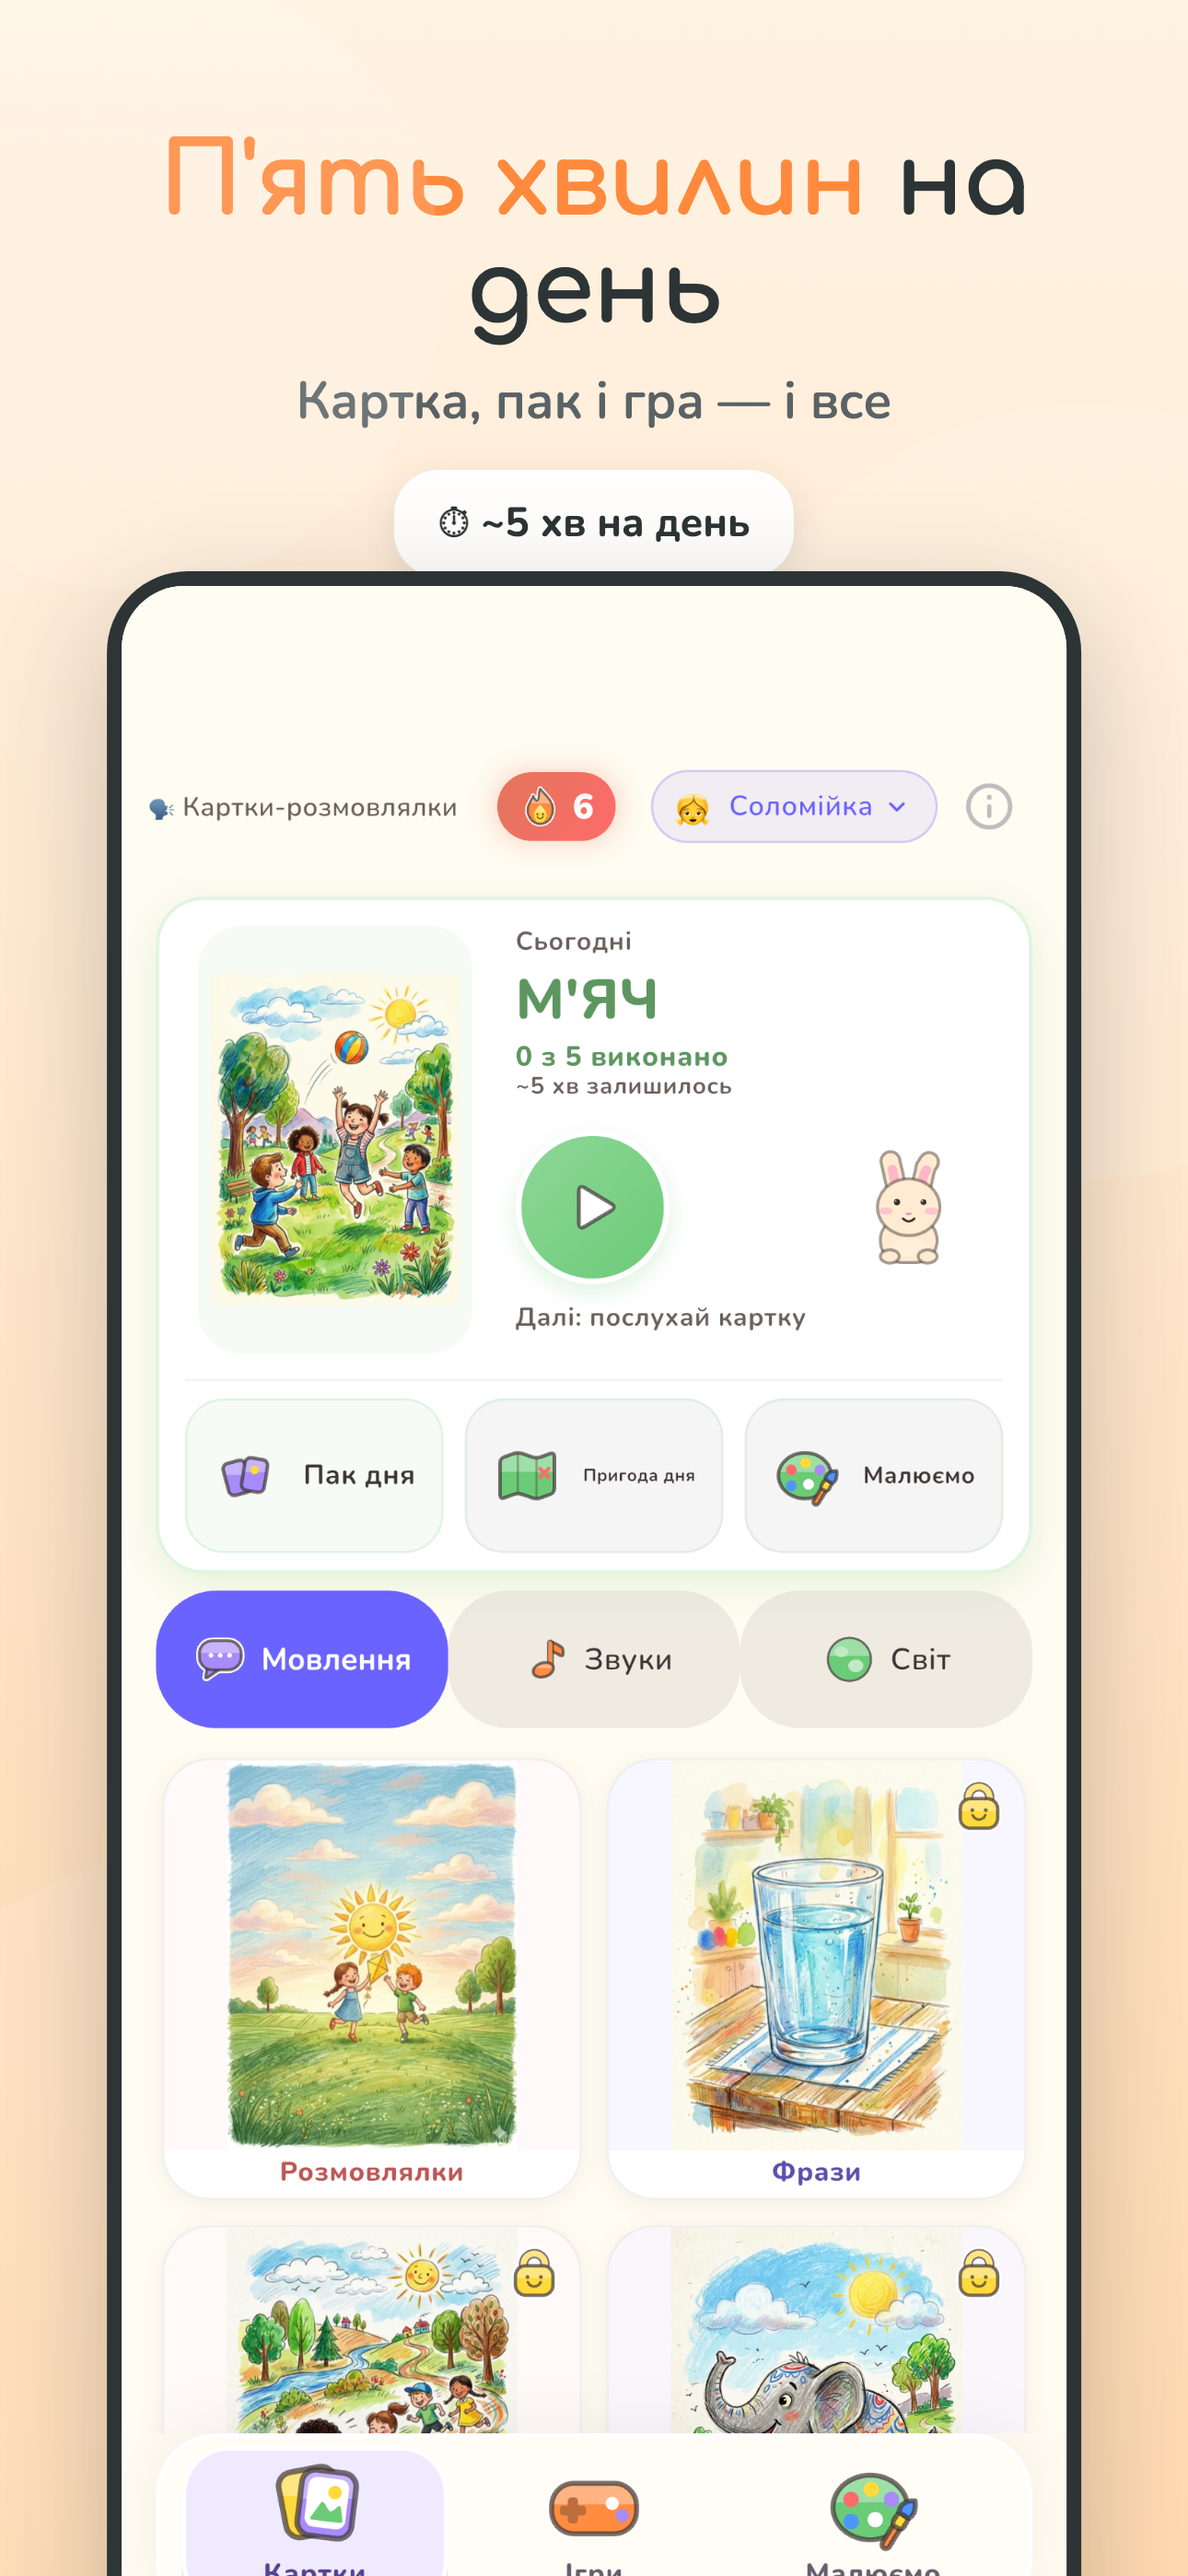
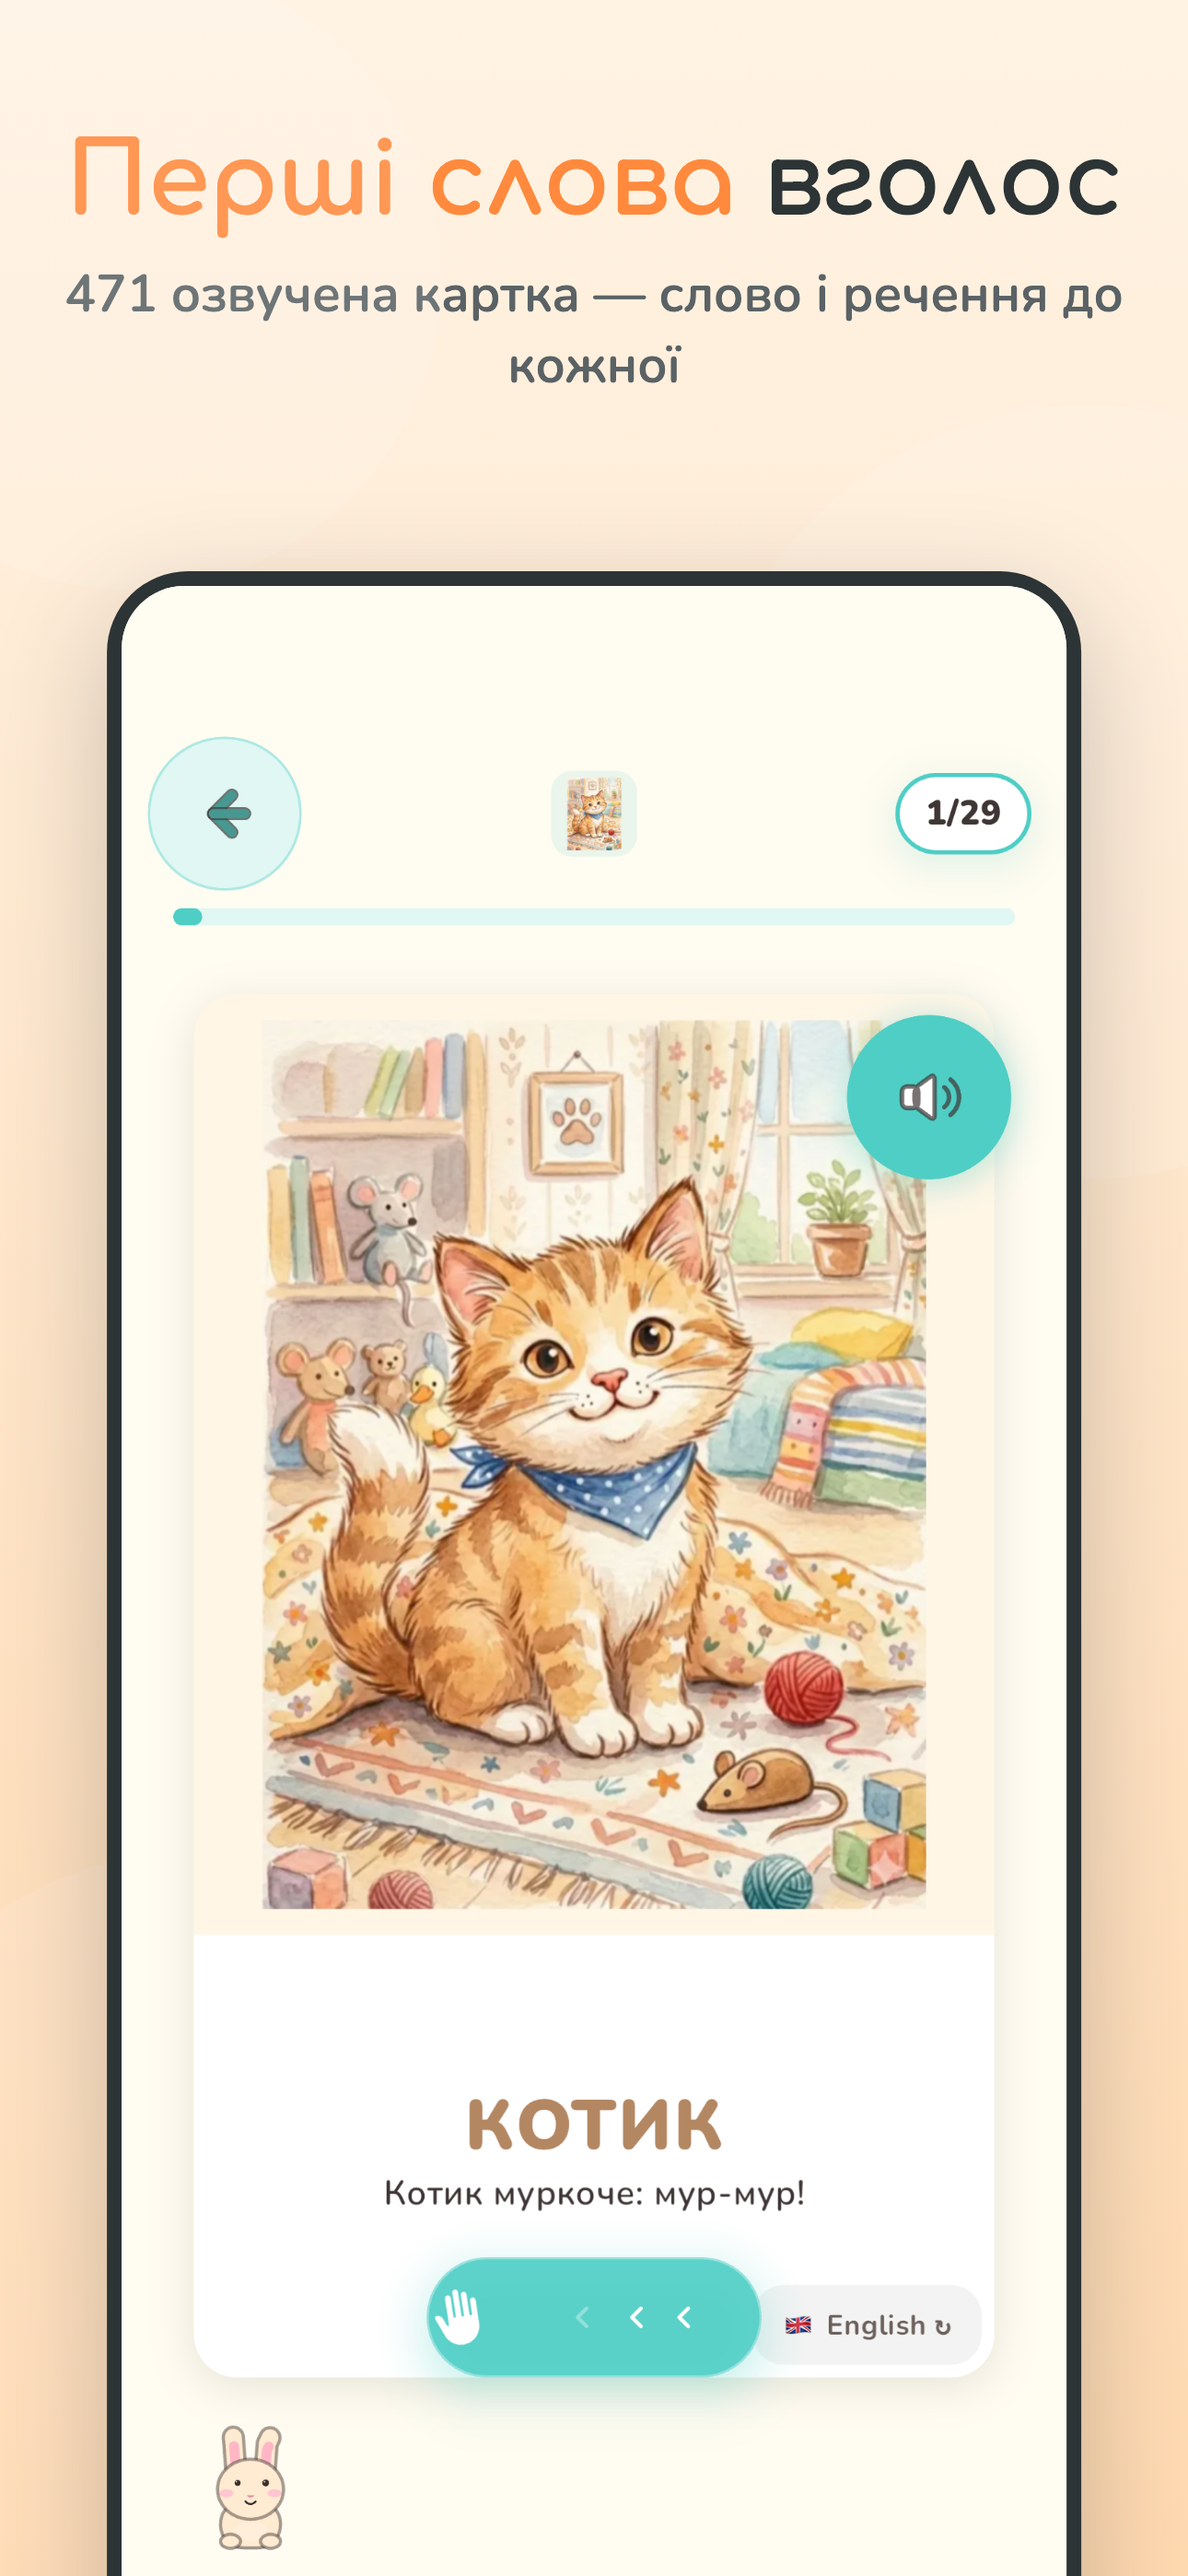
feat(aso): the first two screenshots now answer the search that found us
In a search result a parent sees two screenshots. The first one used to
sell the time commitment — «П'ять хвилин на день» over a dense home
screen that is unreadable at thumbnail size — and the sound packs, the
one thing in this app that matches what people actually type, appeared in
no screenshot at all. Apple's autocomplete in the Ukrainian storefront
offers «логопед р», «логопед ш», «логопед щ укр»; we sell exactly that
and never showed it.

Slot 1 is now the card itself: one big illustration, one big word, which
is also what survives being shrunk to a thumbnail. Slot 2 is the sound
shelf — Р, Л, Ш, С, З, Ж, Ч, Щ, Ц — with the letters children see.
«П'ять хвилин на день» keeps its place as slot 6, where a parent already
reading the page can find it, and the safety slot closes the set at 7.

The store rig now captures the sound shelf too, though this run was taken
by hand: the rig itself dies on `FlutterError.onError`, which main.dart
hands to Crashlytics and which the test binding refuses to see overridden.
Worth fixing separately — the English shelf still needs its shot.

Nothing is uploaded: the slots are in the repo, the store still serves
the old ones.

diff --git a/integration_test/store_screenshots_test.dart b/integration_test/store_screenshots_test.dart
@@ -128,7 +128,20 @@ void main() {
     await tester.tapAt(const Offset(200, 80));
     await tester.pumpAndSettle();
 
-    // 3. Parent dashboard behind the gate.
+    // 3. The sound packs. Apple's own autocomplete in the Ukrainian
+    // storefront suggests «логопед р», «логопед ш», «логопед щ укр» — the
+    // packs that answer those queries were in no store screenshot at all.
+    final sounds = find.text(lang == 'en' ? 'Sounds' : 'Звуки');
+    if (sounds.evaluate().isNotEmpty) {
+      await tester.tap(sounds.first, warnIfMissed: false);
+      await tester.pumpAndSettle(const Duration(seconds: 1));
+      await binding.takeScreenshot('sounds-$lang');
+      await tester.tap(find.text(lang == 'en' ? 'Speech' : 'Мовлення').first,
+          warnIfMissed: false);
+      await tester.pumpAndSettle();
+    }
+
+    // 4. Parent dashboard behind the gate.
     await tester.longPress(find.byIcon(Icons.info_outline_rounded),
         warnIfMissed: false);
     await tester.pumpAndSettle();
@@ -143,5 +156,9 @@ void main() {
 
   testWidgets('capture uk store screenshots', (tester) async {
     await captureFlow(tester, 'uk');
+  });
+
+  testWidgets('capture en store screenshots', (tester) async {
+    await captureFlow(tester, 'en');
   });
 }

diff --git a/integration_test/play_billing_probe_test.dart b/integration_test/play_billing_probe_test.dart
@@ -12,7 +12,7 @@ import 'package:talking_cards/services/purchase_service.dart';
 /// device without a Play account "unavailable" is the correct answer and
 /// still worth seeing.
 ///
-///   flutter test integration_test/play_billing_probe_test.dart -d <device>
+///   flutter test integration_test/play_billing_probe_test.dart -d `<device>`
 void main() {
   IntegrationTestWidgetsFlutterBinding.ensureInitialized();
 
